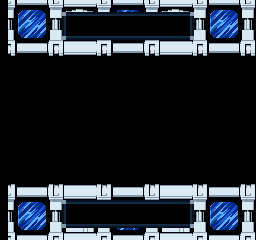
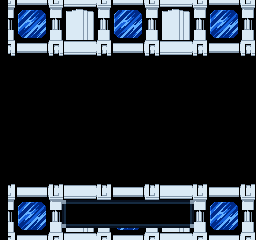
Remove unnecessary boss-name plaque from weapon-get screen

Changed region(s): [[0.2188, 0.0292, 0.7812, 0.175]]

diff --git a/Assets/Bosses/MM1/Cut Man/Victory/Screen/README.md b/Assets/Bosses/MM1/Cut Man/Victory/Screen/README.md
@@ -8,7 +8,8 @@ This is the **reveal/name-card state**, not the later weapon demonstration.
 Native logical size256x240, with a4x nearest-neighbour review image. Adaptation:
 
 - MM6 pipe/window frame art, rearranged into shorter top/bottom bands and recoloured
-  blue/steel. Custom inset Cut Man/weapon-acquired nameplates. This palette/layout
+  blue/steel. Custom bottom weapon-acquired nameplate only. Top Cut Man text
+  AND its entire box removed; uninterrupted mechanical frame restored. This palette/layout
   is custom, not asserted to be original MM6 colours or timing.
 - Original MM6 large Mega Man from a controlled original award scene. The figure
   is background-rendered, NOT an OAM actor: native rendered64x96 region at176,72
@@ -58,3 +59,7 @@ Remaining after visual approval: animated reveal/typing, native-MM6-style demo
 adapted to actual Rolling Cutter, music lifetime/full-cycle handling at approved
 original volume, once-only screen completion/return, complete installation package.
 Do not set screenDone on a timer to bypass the unfinished demonstration.
+
+Latest user review: grey/white portrait and removal of menu row approved.
+Top Cut Man nameplate subsequently removed on request; no boss-name box on this
+or future weapon-get screens. Main weapon title and bottom acquired plaque stay.

diff --git a/Assets/Bosses/MM1/Cut Man/Victory/README.md b/Assets/Bosses/MM1/Cut Man/Victory/README.md
@@ -577,3 +577,10 @@ face and eyes; unrelated magenta cannon accent is grey. Original blue source art
 is retained separately, not drawn. Future weapons require their own matching
 portrait palette rather than default blue. Music and other layout remain unchanged.
 Actual-GML raster test passes revised preview,removed-row and palette-only checks.
+
+### Top boss-name box removed
+
+User approved the revised screen, then requested removing the unnecessary Cut Man
+text box. Removed both boss-name text and its full inset plaque, restoring the
+mechanical frame behind it. No top boss-name box for later weapons either. Main
+YOU GOT/ROLLING CUTTER, grey/white portrait, bottom acquired plaque and music stay.
